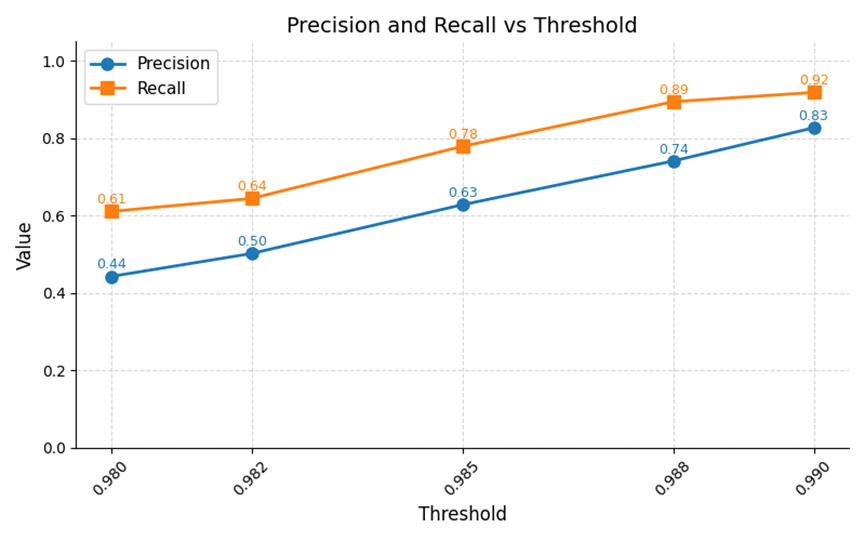
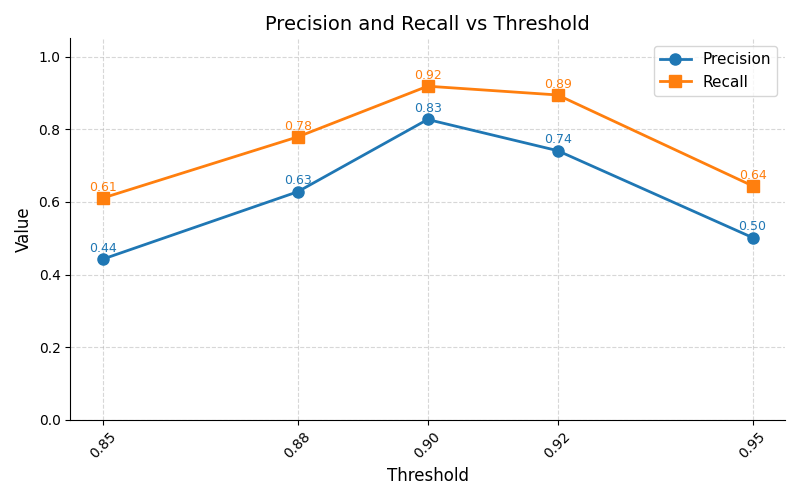
fix: update the report and image

diff --git a/docs/evaluation.md b/docs/evaluation.md
@@ -33,31 +33,31 @@ Finally, the script computes **Precision** and **Recall**, reporting the total c
 
 ![Evaluation Result](./img/evaluation-result.png)
 
-Since the threshold below 0.98 shows a linear increase, we evaluate the threshold between 0.98 and 0.99, while the threshold above 0.99 shows a linear decrease. Therefore, we initially speculate that the optimal threshold is between 0.98 and 0.99. Based on experimental results at different thresholds, the deduplication agent exhibits a typical trade-off between Precision and Recall, with an overall stable upward trend.
+Since the threshold increases from 0.85 to 0.95, both precision and recall first show a clear upward trend and then decline after reaching a peak. Therefore, we initially speculate that the optimal threshold is around 0.90. Based on experimental results at different thresholds, the deduplication agent exhibits a typical trade-off between Precision and Recall, with performance peaking at mid-range thresholds rather than continuously improving.
 
-The graph shows that precision increases steadily with the threshold, from 0.44 at 0.980 to 0.83 at 0.990. This indicates that the model significantly reduces false positives (FP) at higher thresholds, making more conservative and accurate judgments. Recall also increases with the threshold, from 0.61 to 0.92, demonstrating that the model's ability to identify duplicate data improves simultaneously, reducing false negatives (FN).
+The graph shows that precision increases steadily with the threshold, from 0.44 at 0.85 to 0.83 at 0.90, and then declines to 0.50 at 0.95. This indicates that the model reduces false positives (FP) as the threshold increases up to a certain point, but becomes overly strict at higher thresholds. Recall follows a similar pattern, increasing from 0.61 at 0.85 to 0.92 at 0.90, before decreasing to 0.64 at 0.95, demonstrating that the model’s ability to identify duplicate data improves initially but deteriorates when the threshold becomes too high, increasing false negatives (FN).
 
-Based on experimental data, the overall model performance improved significantly, with precision and recall showing a synchronous upward trend. This phenomenon indicates that the current feature engineering design and similarity measurement function are effective in distinguishing target samples and have not yet reached a performance saturation bottleneck, reflecting the model's potential for further optimization.
+Based on experimental data, the overall model performance improves significantly up to the threshold of 0.90, where both precision and recall reach their peak. Beyond this point, both metrics decline, indicating that the model begins to lose balance between identifying duplicates and avoiding incorrect matches.
 
 ### Optimal Threshold Range
 
-In threshold sensitivity analysis, [0.985, 0.988] was determined to be the optimal value range. Specific performance balance is as follows:
+In threshold sensitivity analysis, [0.88, 0.92] was determined to be the optimal value range. Specific performance balance is as follows:
 
 - **Equilibrium Point Analysis:**
 
-  When the threshold is set to 0.985, P ≈ 0.63 and R ≈ 0.78, achieving a preliminary balance between the two metrics.
+  When the threshold is set to 0.88, P ≈ 0.63 and R ≈ 0.78, achieving a reasonable balance between the two metrics.
 
 - **High Recall Tendency:**
 
-  As the threshold increases to 0.988, precision increases to 0.74, and recall increases synchronously to 0.89. This configuration is suitable for business scenarios with low tolerance for missed detections.
+  As the threshold increases to 0.92, precision is around 0.74, and recall remains relatively high at around 0.89. This configuration is suitable for business scenarios with low tolerance for missed detections.
 
 - **Peak Performance and Risk Warning:**
 
-  When the threshold was further increased to 0.990, the model achieved optimal statistical performance (P ≈ 0.83, R ≈ 0.92). However, it is crucial to be aware of the risk of semantic overfitting that may result from excessively high thresholds, i.e., the model might over-capture subtle similarities, thus mistakenly clustering and merging non-repeating entities. Manual verification showed that this risk did not occur at 0.990. Above the threshold of 0.990, an increased false negative rate was observed.
+  When the threshold reaches 0.90, the model achieves optimal statistical performance (P ≈ 0.83, R ≈ 0.92). However, further increasing the threshold leads to a decline in both precision and recall, indicating that excessively high thresholds may cause the model to miss true duplicates due to over-strict similarity requirements.
 
 ### Conclusions and Improvement Suggestions
 
-The current deduplication agent exhibits stable and consistent performance growth during threshold increases, indicating that the current deduplication strategy is effective.
+The current deduplication agent exhibits a clear performance peak around the mid-range threshold, indicating that the current deduplication strategy is effective but sensitive to threshold selection.
 
 ### Limitations of Test Data
 
